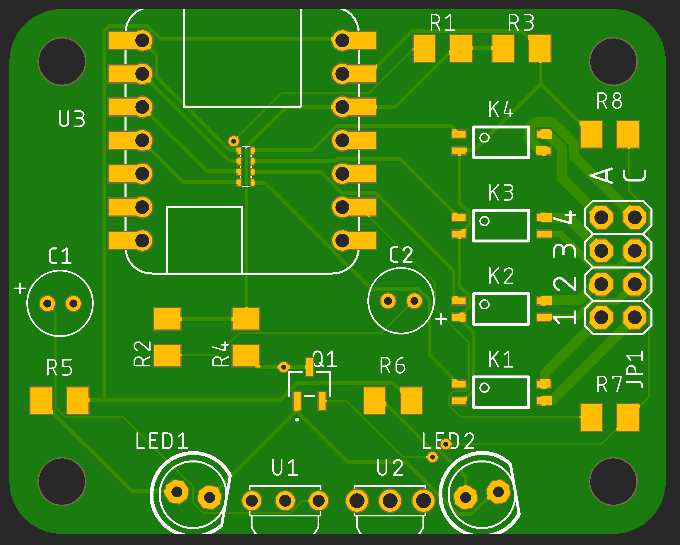
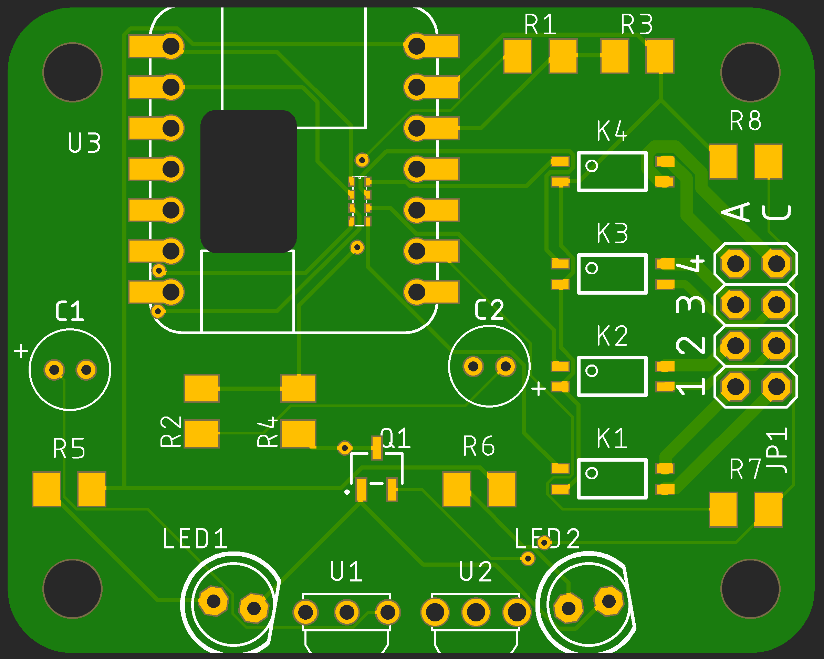
SPI Flash cutout

diff --git a/README.md b/README.md
@@ -16,6 +16,7 @@ The use of an IR transceiver & encoder/decoder will allow the MCU to learn and t
 
 |    Date    | Status                                                       |
 | :--------: | ------------------------------------------------------------ |
+| 2022-11-21 | Created a cutout for QT Py Flash memory. The boards are on almost here. |
 | 2022-11-16 | The last part will arrived tomorrow. The board is fabbed and will arrive next week. |
 | 2022-11-13 | Board updated, cleanup and updates pending. Board and parts orders pending. |
 | 2022-11-06 | Adding ItsyBitsy into the mix.                               |
@@ -98,7 +99,7 @@ An incorrect prototype footprint was used. A replacement is being ordered that w
 ## ToDo List
 
 * ~~Add the footprint for the ItsyBitsy MCU~~.
-* Put a cutout in the board to facilitate the addition of SPI Flash memory to the QT Py when mounted via  castellated pads.
+* ~~Put a cutout in the board to facilitate the addition of SPI Flash memory to the QT Py when mounted via  castellated pad~~s.
 * Consider adding I2C UART for HC-05 Bluetooth module.
 * Add some test points for access to inaccessible pads.
 * Poll for larger pitch screw terminals.
@@ -148,7 +149,7 @@ Other resources to investigate:
 |  U1 alt   | IR Envelope Detector (TSOP53**5**38)                         |      1      |      ()$1.37)      |       ()$1.072)       |    ()$1.37)    | ()$1.072)        |
 |    U2     | IR Carrier Detector                                          |      1      |       $1.23        |        $0.965         |     $1.23      | $0.965           |
 |    D1     | IR Transmitter                                               |      2      |       $0.75        |         $0.68         |     $1.50      | $1.36            |
-|    Q1     | [MOSFET](https://www.digikey.com/short/qvnjfq3w)             |      1      |       $0.37        |        $0.281         |     $0.37      | $0.281           |
+|    Q1     | [MOSFET](https://www.digikey.com/short/qvnjfq3w) or [alt](https://www.digikey.com/short/5jzjq90m) |      1      |       $0.37        |        $0.281         |     $0.37      | $0.281           |
 | **Relay** | **Section**                                                  |             |                    |                       |                |                  |
 |    RN1    | [resistor array](https://www.digikey.com/short/81f2wp7h) 4@100Ω 1206 |      1      |       $0.10        |        $0.087         |     $0.10      | $0.09            |
 |   K1-K4   | 2A SS [Relays](https://www.digikey.com/short/c07nbzqb)       |      4      |       $1.85        |        $1.232         |      7.40      | $4.93            |
